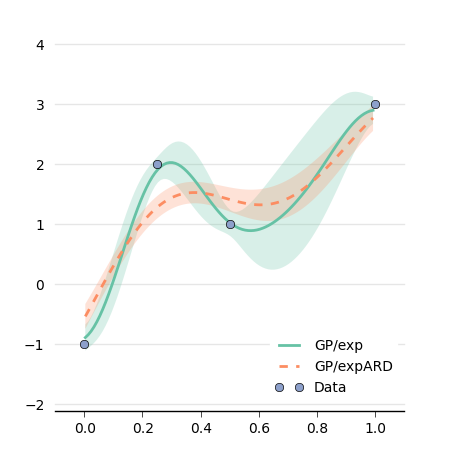
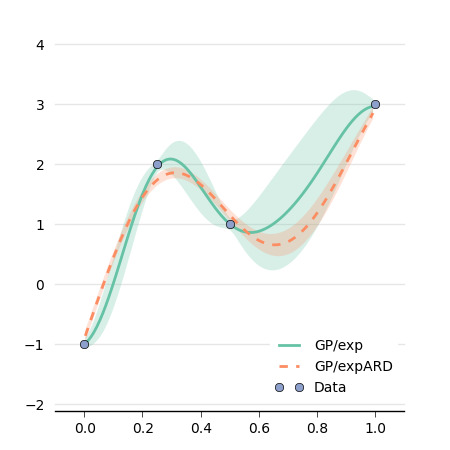
reduce the noise to be closer to the data

Changed region(s): [[0.1867, 0.2178, 0.84, 0.7778], [0.7467, 0.1867, 0.7778, 0.2178]]

diff --git a/src/tutorials/gp.cpp b/src/tutorials/gp.cpp
@@ -42,7 +42,7 @@ int main(int argc, char **argv)
   GP_t gp(1, 1);
 
   // noise is the same for all the samples (0.05)
-  Eigen::VectorXd noises = Eigen::VectorXd::Ones(samples.size()) * 0.05;
+  Eigen::VectorXd noises = Eigen::VectorXd::Ones(samples.size()) * 0.01;
 
   // compute the GP
   gp.compute(samples, observations, noises);
